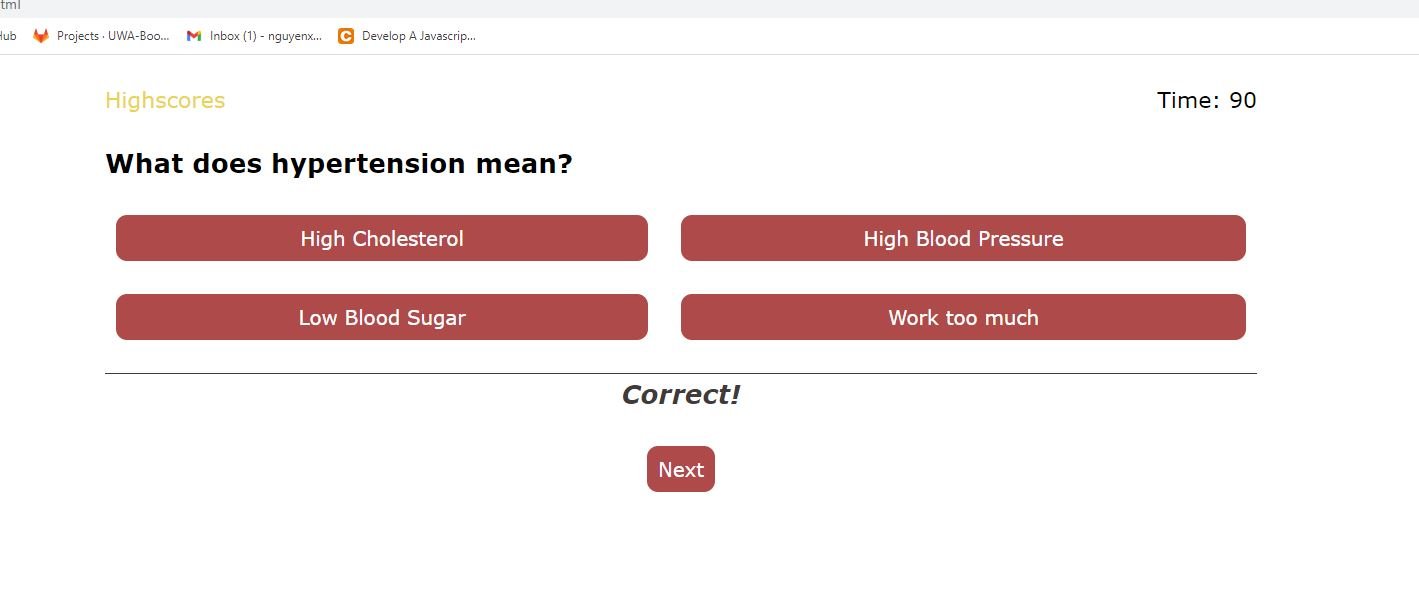
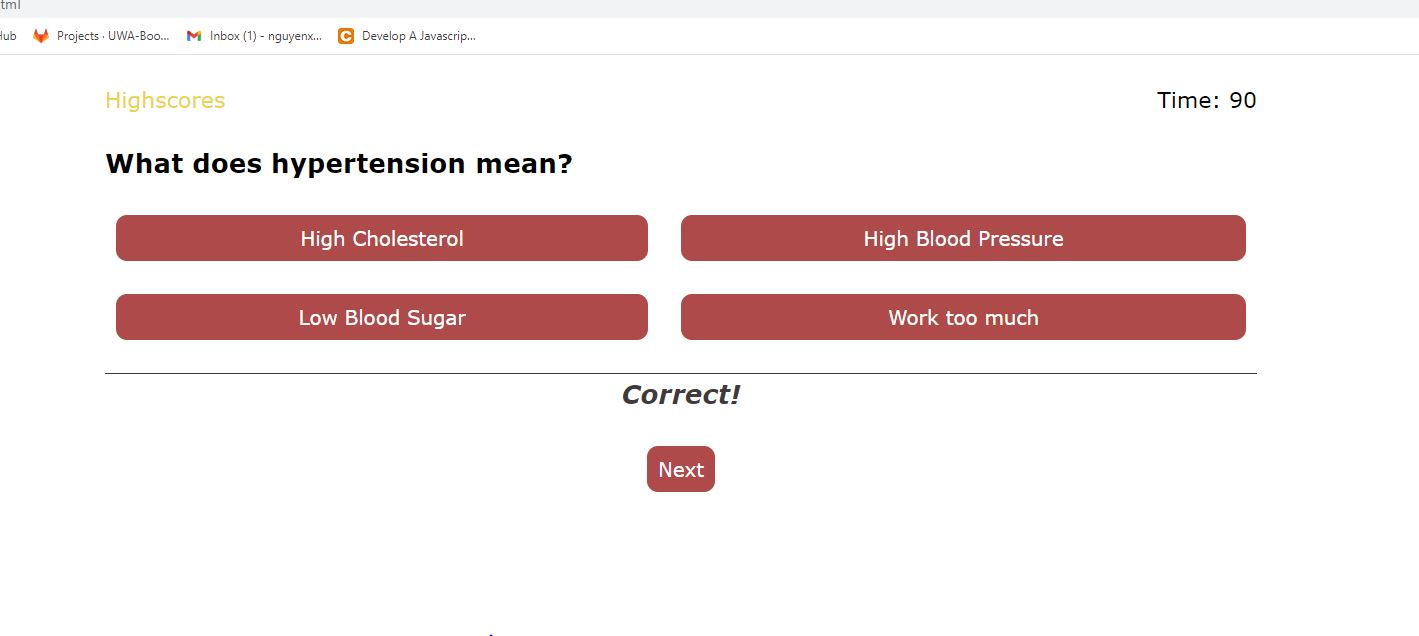
updated

diff --git a/README.md b/README.md
@@ -3,5 +3,5 @@
 Description
 This webpage is designed to be a quiz game about medical 
 
-![initialScreenshot](/images/screenshot1.jpg)
-![sameQueation](/images/screenshot2.jpg)
+![initialScreenshot](/images/screenshot1.jpeg)
+![sampleQuestion](/images/screenshot2.jpeg)
